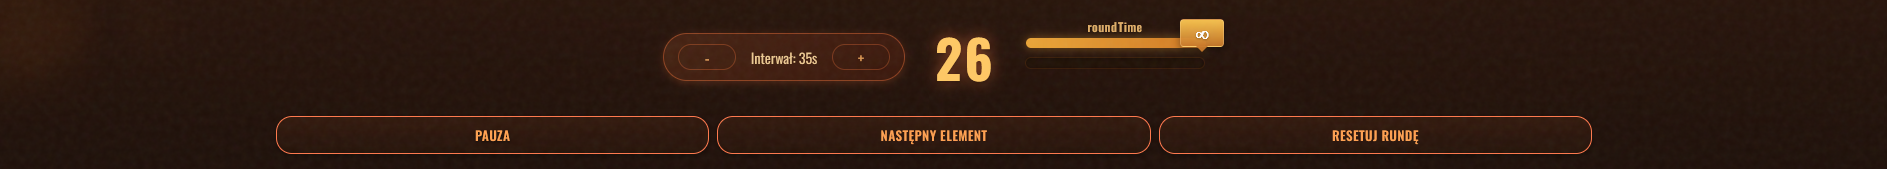
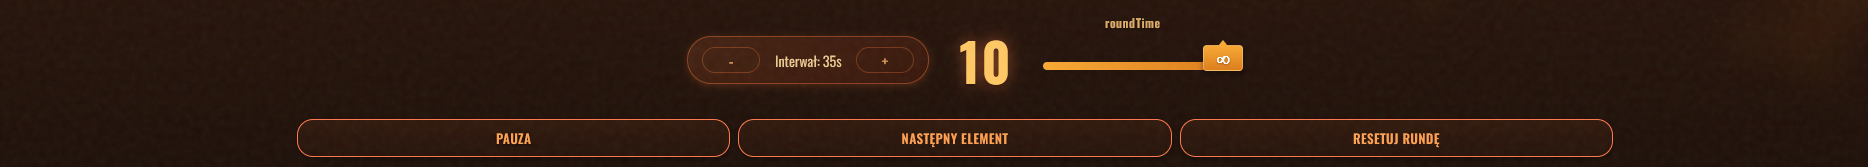
current

diff --git a/frontend/src/components/BattleMode/SharedControls/FireSliderStyles.js b/frontend/src/components/BattleMode/SharedControls/FireSliderStyles.js
@@ -177,38 +177,27 @@ const FireSliderStyles = () => {
       .round-time-thumb-display {
         position: absolute;
         width: 40px;
-        height: 26px;
+        height: 22px;
         background: linear-gradient(to bottom, #F8A932, #DD7D1B);
         color: #fff;
         font-weight: bold;
         display: flex;
         align-items: center;
         justify-content: center;
-        border-radius: 4px;
-        box-shadow: 0 3px 6px rgba(0,0,0,0.4);
-        font-size: 18px;
+        border-radius: 2px;
+        box-shadow: 0 2px 4px rgba(0,0,0,0.4);
+        font-size: 16px;
         z-index: 10; /* Higher z-index to ensure it's always clickable */
         font-family: var(--font-display);
         transition: transform 0.1s ease; /* Only animate transform for better dragging */
-        border: 1px solid rgba(255, 220, 160, 0.4);
+        border: 1px solid rgba(255, 220, 160, 0.2);
         text-shadow: 0 1px 2px rgba(0,0,0,0.3);
         cursor: grab;
         user-select: none; /* Prevent text selection */
         touch-action: none; /* Better touch handling */
-      }
-      
-      /* Pointer below box */
-      .round-time-thumb-display:after {
-        content: '';
-        position: absolute;
-        bottom: -6px;
-        left: 50%;
-        transform: translateX(-50%);
-        width: 0;
-        height: 0;
-        border-left: 5px solid transparent;
-        border-right: 5px solid transparent;
-        border-top: 6px solid #DD7D1B;
+        /* Remove pointer and let the thumb sit directly on the track line */
+        top: -11px; /* Position thumb centered on the track */
+        margin-top: 0; /* Reset any margins */
       }
       
       .round-time-thumb-display:hover {
@@ -226,19 +215,23 @@ const FireSliderStyles = () => {
       /* Round Time Track Styling - Simplified with one track */
       .round-time-track {
         position: absolute;
-        height: 8px;
+        height: 4px;
+        top: 50%;
+        margin-top: -2px; /* Center the track vertically */
         background: rgba(40, 20, 10, 0.6);
-        border-radius: 4px;
+        border-radius: 2px;
         width: 100%;
-        box-shadow: inset 0 1px 2px rgba(0, 0, 0, 0.4);
+        box-shadow: inset 0 1px 1px rgba(0, 0, 0, 0.3);
         cursor: pointer; /* Make track clickable */
       }
       
       .round-time-track-fill {
         position: absolute;
-        height: 8px;
+        height: 4px;
+        top: 50%;
+        margin-top: -2px; /* Center the track fill vertically */
         background: linear-gradient(to right, #F8A932, #DD7D1B);
-        border-radius: 4px;
+        border-radius: 2px;
         transition: width 0.1s ease-out;
         pointer-events: none; /* Allow clicks to pass through to track */
       }

diff --git a/frontend/src/components/BattleMode/SharedControls/StyledTimerControls.js b/frontend/src/components/BattleMode/SharedControls/StyledTimerControls.js
@@ -328,17 +328,19 @@ export const StyledTimerControls = ({
             </RoundTimeLabel>
             
             {/* Slider Container with Time Display */}
-            <SliderContainer style={{ width: '100%', height: '46px', paddingTop: '6px' }}>
+            <SliderContainer style={{ width: '100%', height: '60px', paddingTop: '6px' }}>
               {/* Simple track for visual indication only */}
-              <div className="round-time-track"></div>
-              
-              {/* Custom track fill */}
-              <div 
-                className="round-time-track-fill"
-                style={{
-                  width: `${getRoundDurationPercentage(roundDuration)}%`,
-                }}
-              ></div>
+              <div style={{ position: 'relative', width: '100%', height: '20px' }}>
+                <div className="round-time-track"></div>
+                
+                {/* Custom track fill */}
+                <div 
+                  className="round-time-track-fill"
+                  style={{
+                    width: `${getRoundDurationPercentage(roundDuration)}%`,
+                  }}
+                ></div>
+              </div>
               
               {/* Draggable Thumb Display */}
               <div 
@@ -438,12 +440,24 @@ export const StyledTimerControls = ({
                       trackEl.onclick = (e) => {
                         updateFromPointer(e.clientX);
                       };
+                      
+                      // Add additional click area around the track
+                      const container = el.parentElement;
+                      if (container) {
+                        // Clicking anywhere in the container will update the position
+                        container.onclick = (e) => {
+                          // Only handle clicks that weren't on the thumb itself
+                          if (e.target !== el) {
+                            updateFromPointer(e.clientX);
+                          }
+                        };
+                      }
                     }
                   }
                 }}
                 style={{
                   left: `calc(${getRoundDurationPercentage(roundDuration)}% - 20px)`,
-                  top: '-18px',
+                  top: '0',
                   cursor: 'grab',
                 }}
               >

diff --git a/frontend/src/components/BattleMode/SharedControls/TimerControls.js b/frontend/src/components/BattleMode/SharedControls/TimerControls.js
@@ -340,21 +340,23 @@ export const TimerControls = ({
             <div style={{
               position: 'relative',
               width: '100%',
-              height: '46px',
+              height: '60px',
               display: 'flex',
               alignItems: 'center',
               paddingTop: '6px',
             }}>
               {/* Simple track for visual indication only */}
-              <div className="round-time-track"></div>
-              
-              {/* Custom track fill */}
-              <div 
-                className="round-time-track-fill"
-                style={{
-                  width: `${getRoundDurationPercentage(roundDuration)}%`,
-                }}
-              ></div>
+              <div style={{ position: 'relative', width: '100%', height: '20px' }}>
+                <div className="round-time-track"></div>
+                
+                {/* Custom track fill */}
+                <div 
+                  className="round-time-track-fill"
+                  style={{
+                    width: `${getRoundDurationPercentage(roundDuration)}%`,
+                  }}
+                ></div>
+              </div>
               
               {/* Draggable Thumb Display */}
               <div 
@@ -454,12 +456,24 @@ export const TimerControls = ({
                       trackEl.onclick = (e) => {
                         updateFromPointer(e.clientX);
                       };
+                      
+                      // Add additional click area around the track
+                      const container = el.parentElement;
+                      if (container) {
+                        // Clicking anywhere in the container will update the position
+                        container.onclick = (e) => {
+                          // Only handle clicks that weren't on the thumb itself
+                          if (e.target !== el) {
+                            updateFromPointer(e.clientX);
+                          }
+                        };
+                      }
                     }
                   }
                 }}
                 style={{
                   left: `calc(${getRoundDurationPercentage(roundDuration)}% - 20px)`,
-                  top: '-18px',
+                  top: '0',
                   cursor: 'grab',
                 }}
               >

diff --git a/frontend/src/config/translations.js b/frontend/src/config/translations.js
@@ -11,6 +11,7 @@ const translations = {
     timer: "Timer",
     interval: "Interval",
     roundDuration: "Round Duration",
+    roundTime: "Round Time",
     roundDurationValue: "{{value}}s",
     
     // Control buttons
@@ -71,6 +72,7 @@ const translations = {
     timer: "Stoper",
     interval: "Interwał",
     roundDuration: "Czas Rundy",
+    roundTime: "Czas Rundy",
     roundDurationValue: "{{value}}s",
     
     // Control buttons
